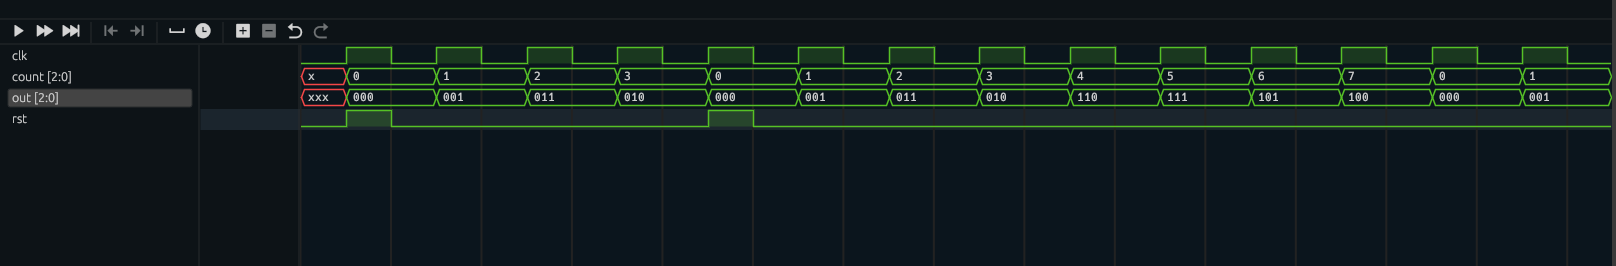
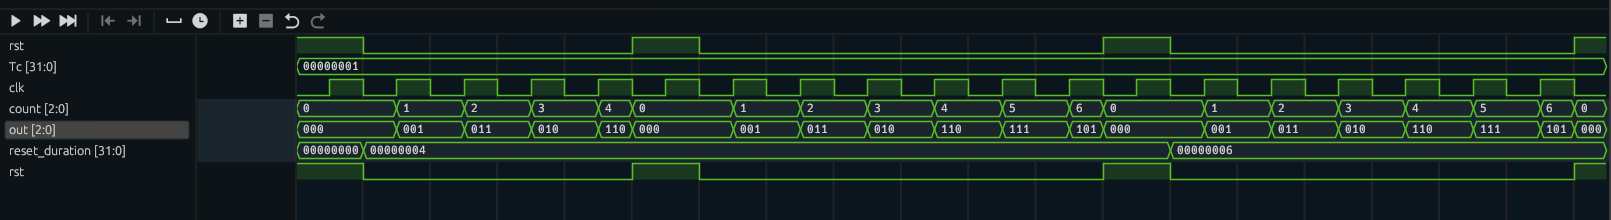
I'm finally done!!

diff --git a/README.md b/README.md
@@ -12,92 +12,10 @@
 - [x] monitor
 - [x] scoreboard
 
-## Todo
-- [ ] Print the output properly
-
 ## Status
-- Current Waveform:- (for reset_duration = 7)
+- Current Waveform:- (for reset_duration = 4)
 ![output](output.png)
-<details><summary><b><code>Current output:- </code></b></summary>
-Simulation:<br>
-<code>
-============= Generating =============
--------------------------
- Generator 
--------------------------
-reset_duration = 7
-count = xxx, out = xxx
--------------------------
--------------------------
- Driver 
--------------------------
-reset_duration = 7
-count = 000, out = 000
--------------------------
--------------------------
- Driver for rst 
--------------------------
-reset_duration = 7
-count = 000, out = 000
--------------------------
-=============== Testing @ 12 ===============
--------------------------
- Monitor 
--------------------------
-reset_duration = 0
-count = 011, out = 010
--------------------------
-Result is correct
--------------------------
- Scoreboard 
--------------------------
-reset_duration = 0
-count = 011, out = 010
--------------------------
-=============== Testing @ 17 ===============
--------------------------
- Monitor 
--------------------------
-reset_duration = 0
-count = 101, out = 111
--------------------------
-Result is correct
--------------------------
- Scoreboard 
--------------------------
-reset_duration = 0
-count = 101, out = 111
--------------------------
-=============== Testing @ 22 ===============
--------------------------
- Monitor 
--------------------------
-reset_duration = 0
-count = 000, out = 000
--------------------------
-Result is correct
--------------------------
- Scoreboard 
--------------------------
-reset_duration = 0
-count = 000, out = 000
--------------------------
-=============== Testing @ 27 ===============
--------------------------
- Monitor 
--------------------------
-reset_duration = 0
-count = 010, out = 011
--------------------------
-Result is correct
--------------------------
- Scoreboard 
--------------------------
-reset_duration = 0
-count = 010, out = 011
--------------------------
-</code>
-</details>
+- ![Current Output Log](output.log)
 
 # Diagram
 ```
